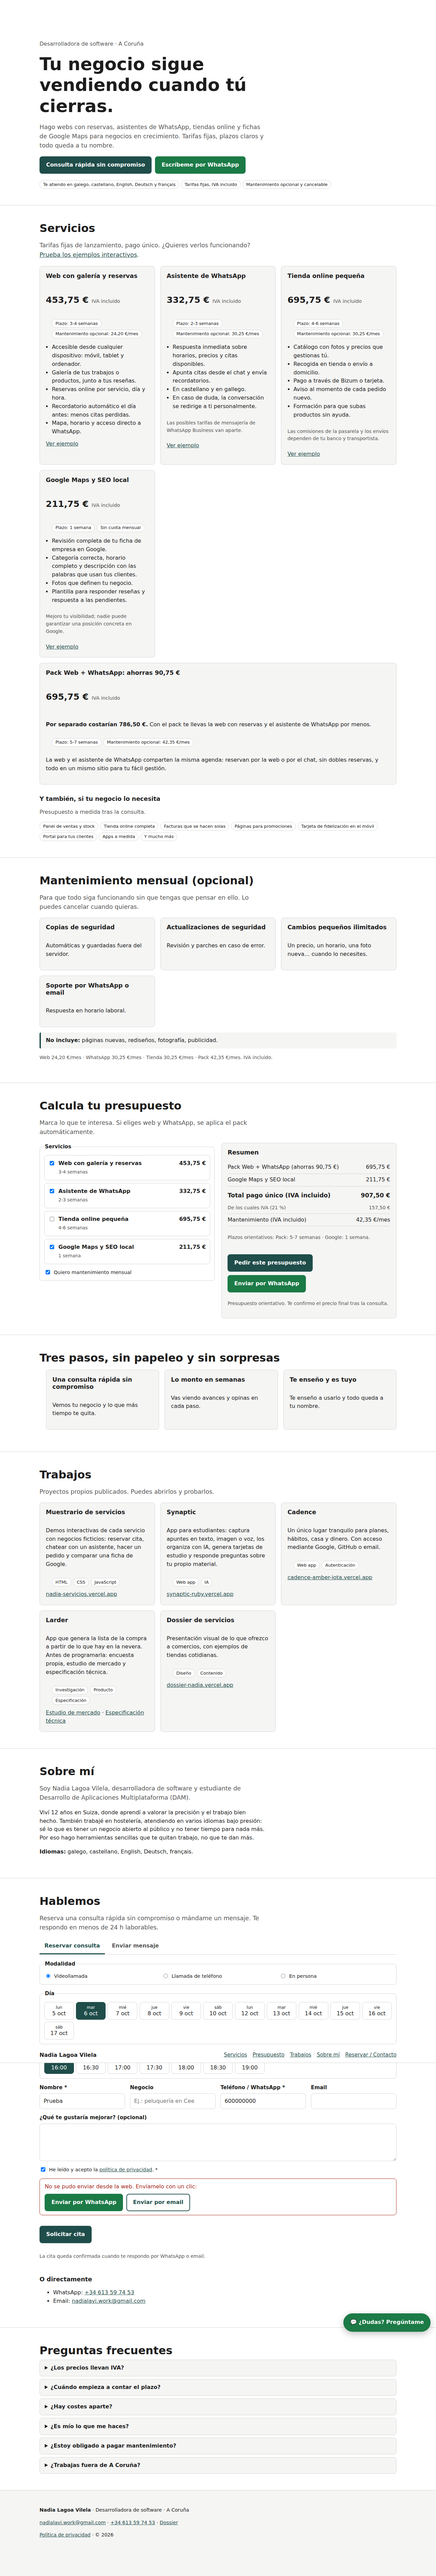
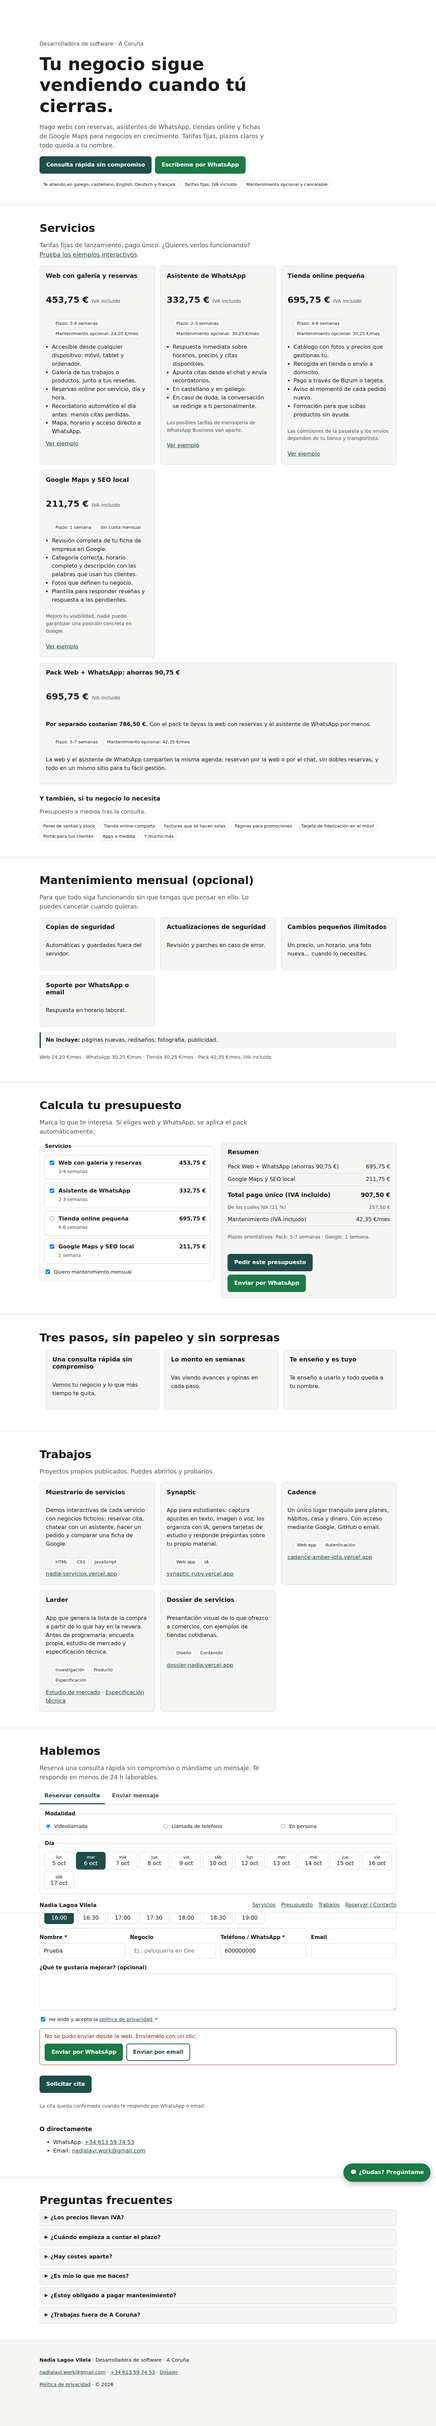
Web profesional: quita la sección Sobre mí
Claude-Session: https://claude.ai/code/session_019bAWJHMBKbPW7TzX9YoPBP

diff --git a/web-profesional/index.html b/web-profesional/index.html
@@ -208,7 +208,6 @@ dialog::backdrop { background: rgba(0,0,0,.4); }
         <li><a href="#servicios">Servicios</a></li>
         <li><a href="#presupuesto">Presupuesto</a></li>
         <li><a href="#trabajos">Trabajos</a></li>
-        <li><a href="#sobre-mi">Sobre mí</a></li>
         <li><a href="#contacto">Reservar / Contacto</a></li>
       </ul>
     </nav>
@@ -435,18 +434,6 @@ dialog::backdrop { background: rgba(0,0,0,.4); }
         <a href="https://dossier-nadia.vercel.app" target="_blank" rel="noopener">dossier-nadia.vercel.app</a>
       </article>
     </div>
-  </div>
-</section>
-
-<!-- =============================================================
-     SOBRE MÍ
-     ============================================================= -->
-<section id="sobre-mi">
-  <div class="wrap">
-    <h2>Sobre mí</h2>
-    <p class="lead">Soy Nadia Lagoa Vilela, desarrolladora de software y estudiante de Desarrollo de Aplicaciones Multiplataforma (DAM).</p>
-    <p style="max-width:65ch">Viví 12 años en Suiza, donde aprendí a valorar la precisión y el trabajo bien hecho. También trabajé en hostelería, atendiendo en varios idiomas bajo presión: sé lo que es tener un negocio abierto al público y no tener tiempo para nada más. Por eso hago herramientas sencillas que te quitan trabajo, no que te dan más.</p>
-    <p><strong>Idiomas:</strong> galego, castellano, English, Deutsch, français.</p>
   </div>
 </section>
 
